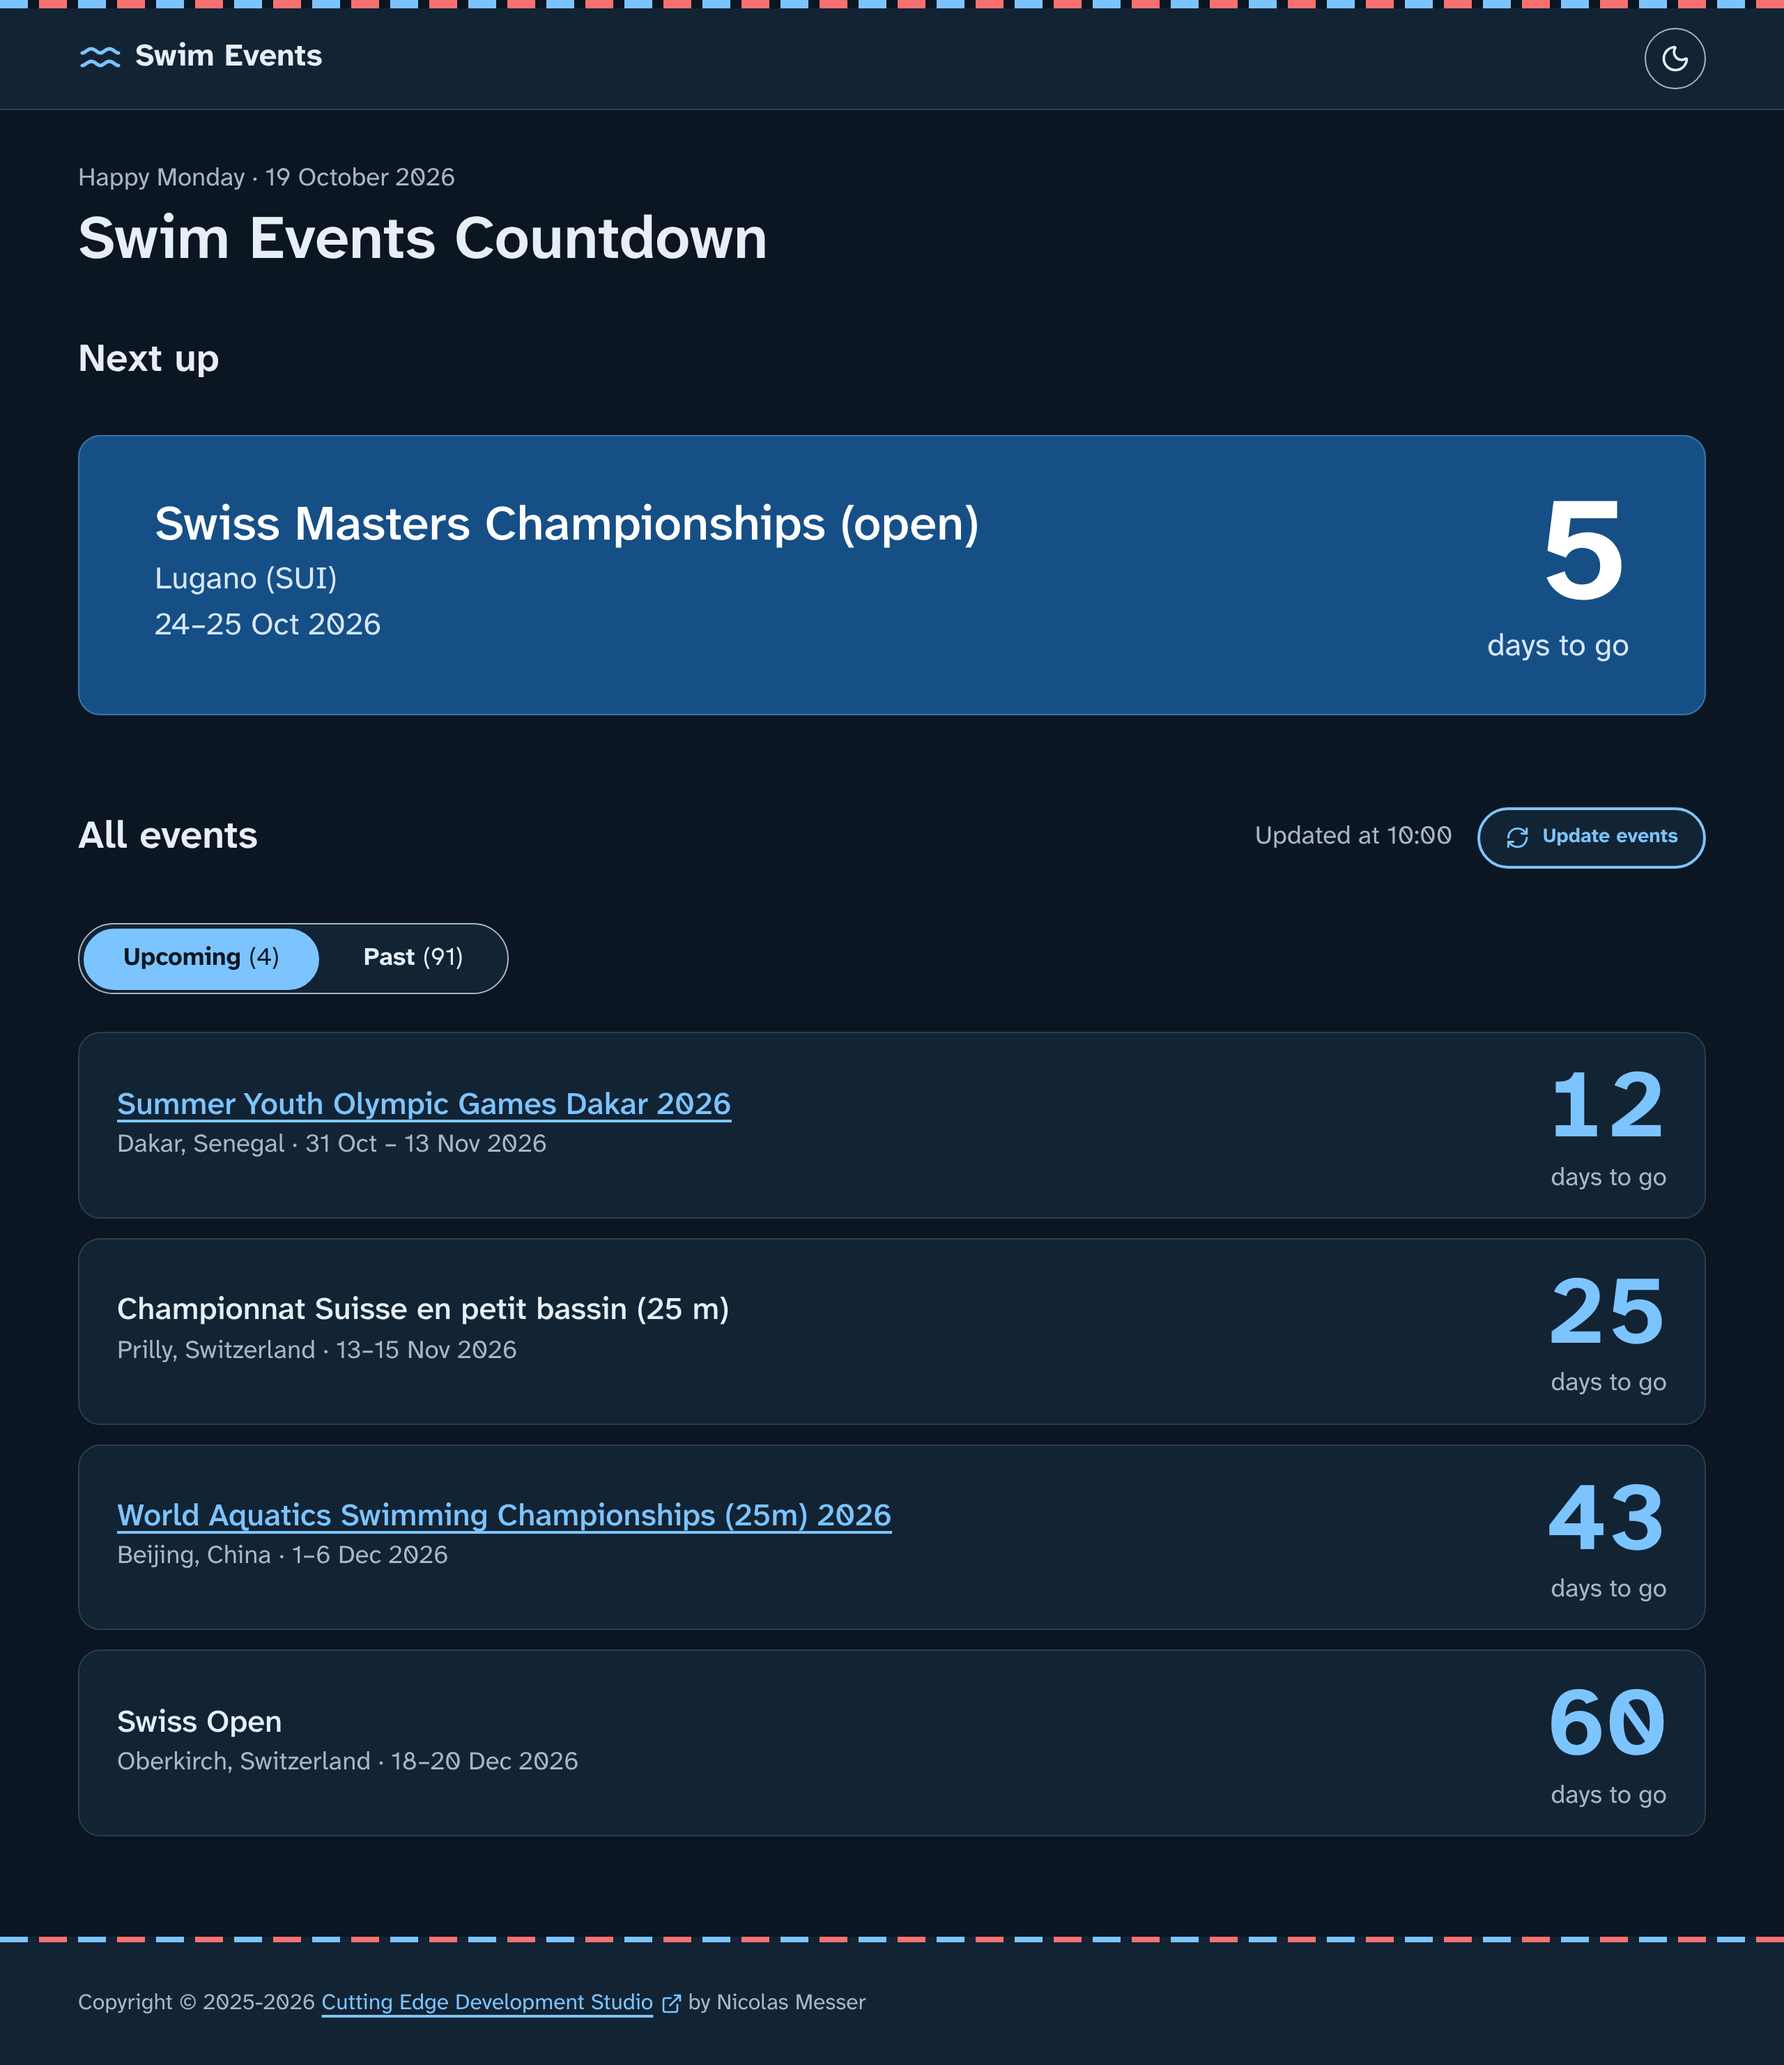
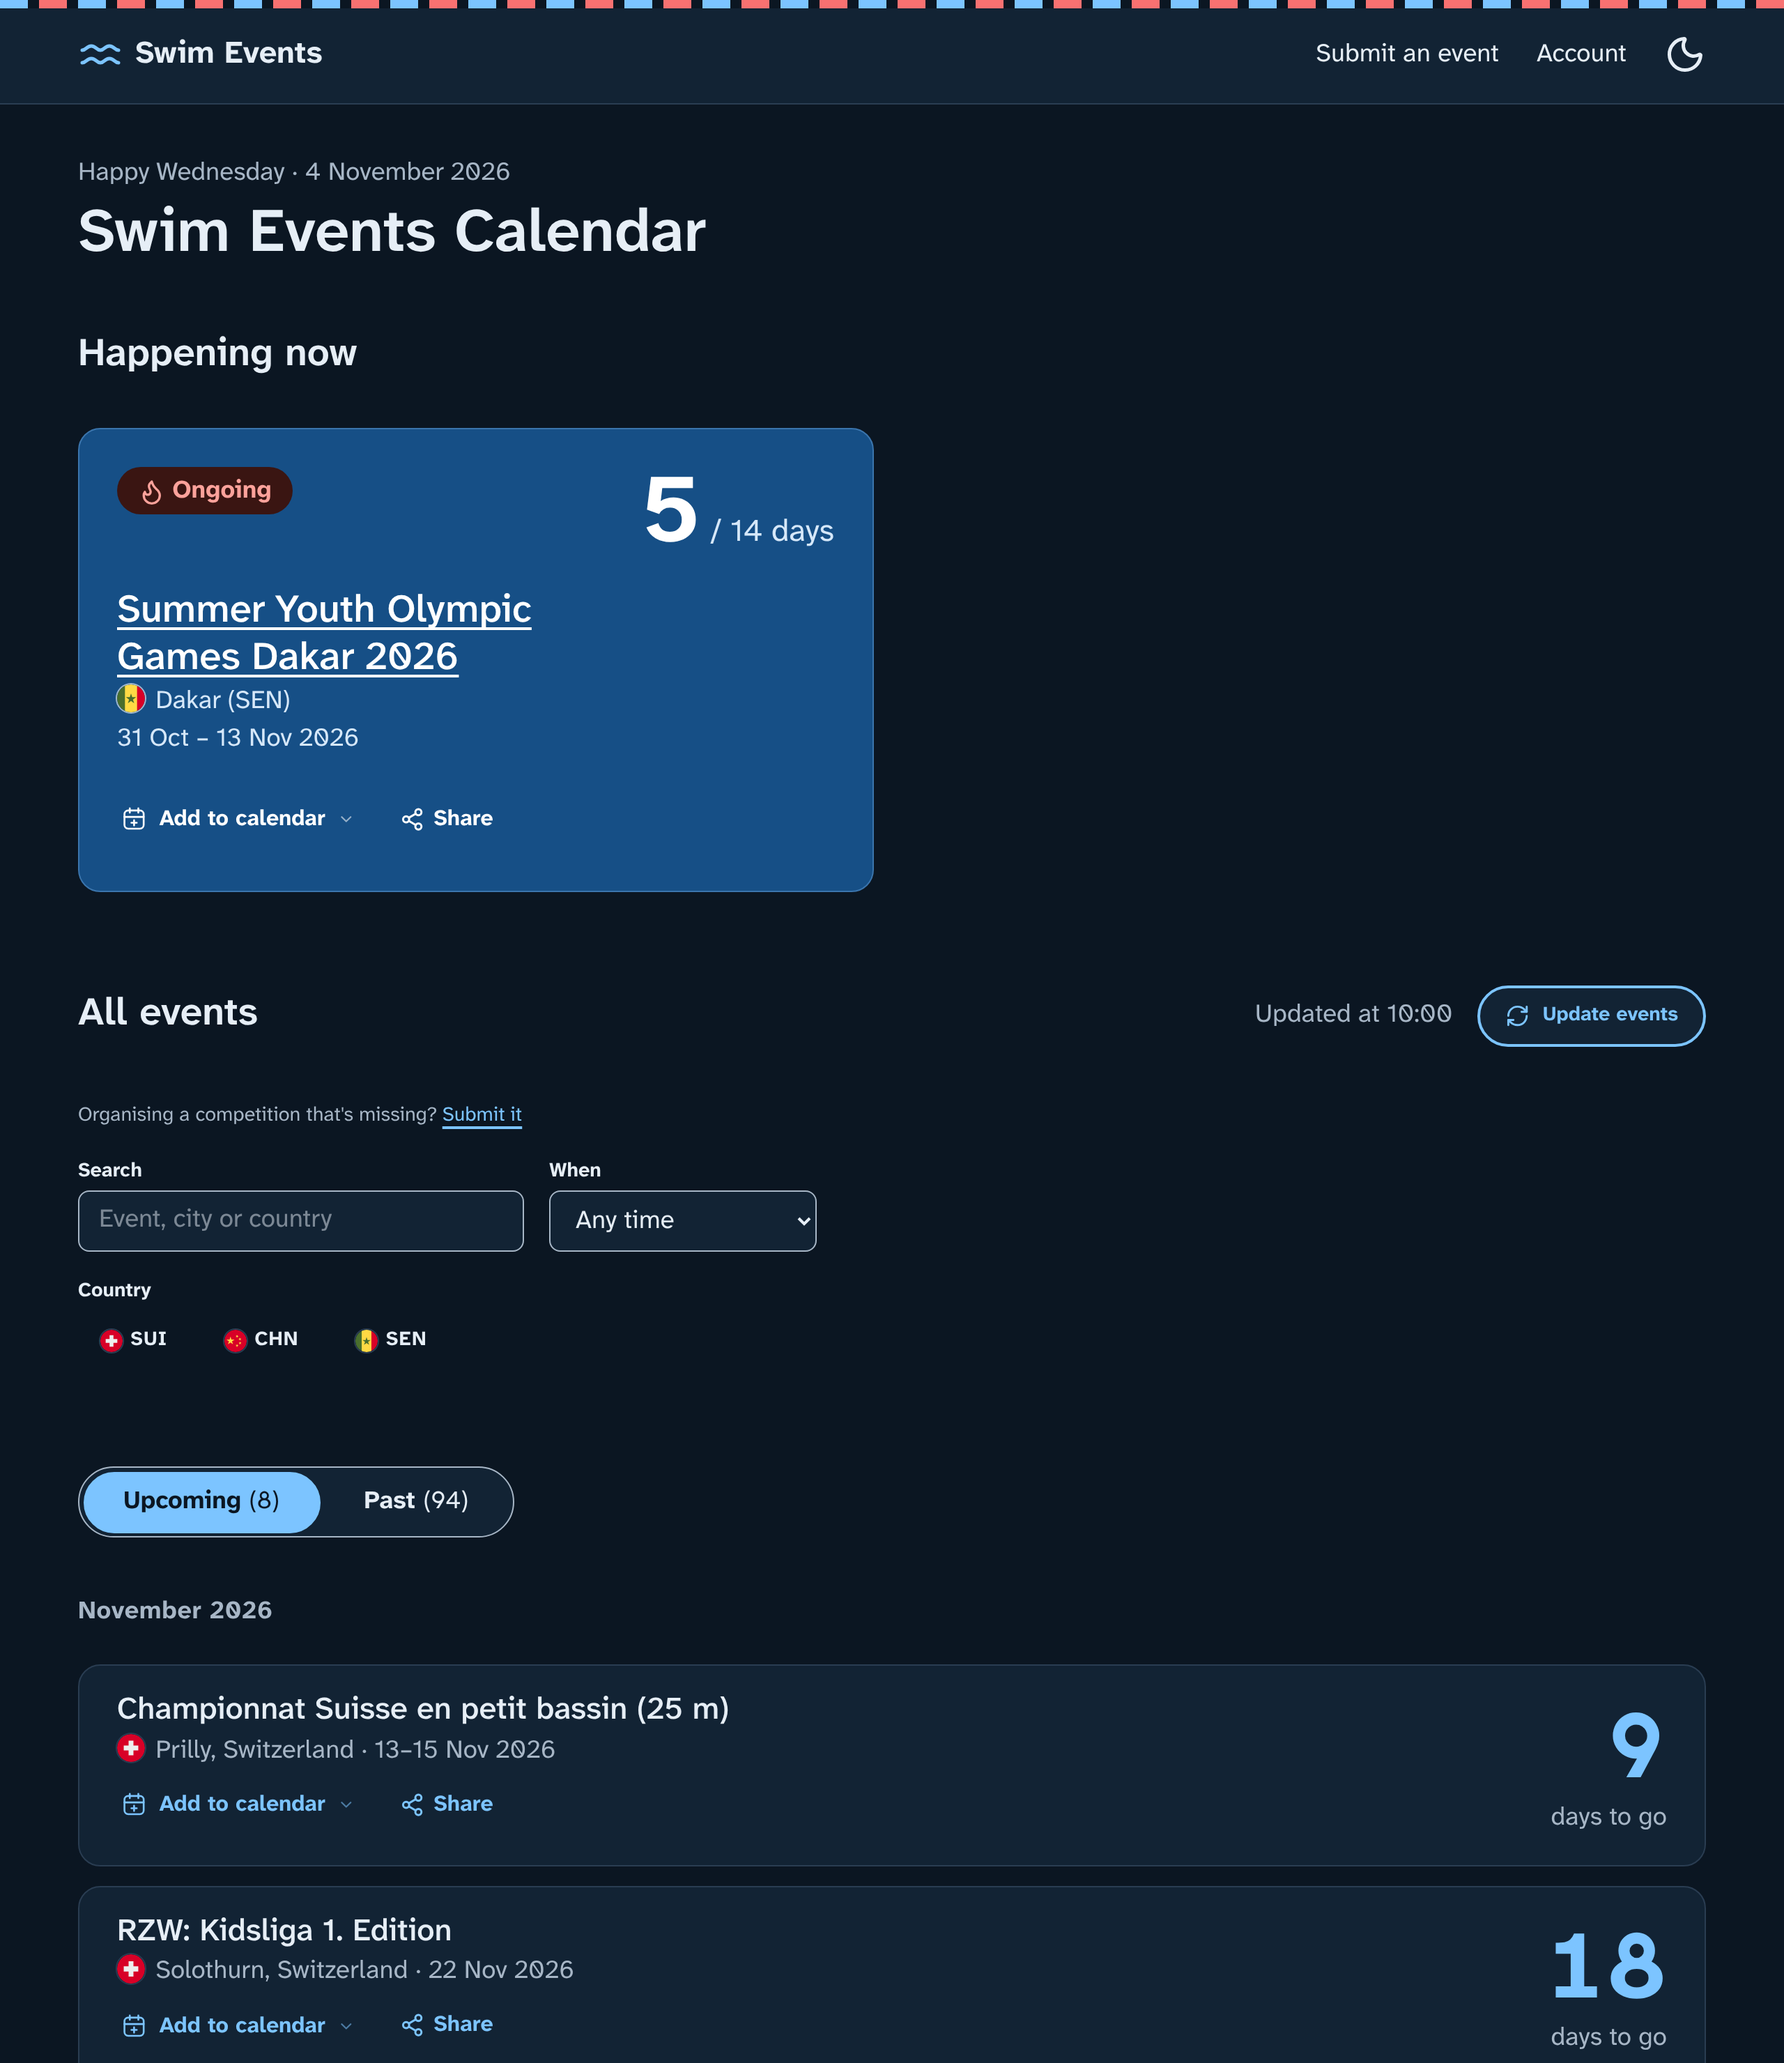
Update the README for the current site
New intro, Features and Event submissions sections, fresh screenshots, the
city and country columns instead of the dropped location column, shared
#event links, the link preview image, and the notify-submission secrets.
package.json now has the site's own name, description and author.

Claude-Session: https://claude.ai/code/session_01BtKM4QGb1zzSNwj4auzTcG

diff --git a/README.md b/README.md
@@ -1,27 +1,58 @@
 # Swim Events Calendar (v2)
 
-A small site that shows countdowns to upcoming swimming events. This is version 2, rebuilt on the
+A calendar of swimming competitions in Switzerland and abroad, with a countdown to each one. Visitors can search and
+filter the events, add them to their calendar and share them; organisers can submit their own competitions. This is version 2, rebuilt on the
 [Accessible Astro Starter](https://github.com/incluud/accessible-astro-starter) (barebones preset). Version 1 (Vue + Parcel)
 lives in [CuttingEdgeDevelopment/swim-events](https://github.com/CuttingEdgeDevelopment/swim-events).
 
 ### Preview
-<img src="src/assets/img/countdown-screenshot.png" alt="Swim Events Calendar in light mode on a desktop browser, with the next event and the upcoming list." width="640">
+<img src="src/assets/img/countdown-screenshot.png" alt="Swim Events Calendar in light mode on a desktop browser: a running event under Happening now, the search and country filters, and the upcoming list with Add to calendar and Share buttons." width="640">
 <img src="src/assets/img/countdown-screenshot-mobile.png" alt="The same page on a phone." width="180">
 
 <img src="src/assets/img/countdown-screenshot-dark.png" alt="The page in dark mode." width="640">
 
+### Features
+- **Countdowns:** the events running today under "Happening now", otherwise the next one under "Next up", then every
+  upcoming event by month with the days to go. Past events are listed by year, 20 at a time (10 on phones).
+- **Search and filters:** search by event, city or country, pick a time period (next 7 or 30 days, 3 months, or chosen
+  dates), countries and, under Past, a year. Filters are kept in the URL (`?q=basel&when=30d&country=SUI&year=2025`), so a
+  filtered list can be shared.
+- **Add to calendar:** Apple, Google, Outlook, Yahoo or an `.ics` file, using
+  [add-to-calendar-button](https://github.com/add2cal/add-to-calendar-button).
+- **Share:** opens the device's share sheet, or a menu with Copy link, WhatsApp and Email. The message names the event,
+  place, dates and days to go, and links to `/#event-123`.
+- **Submit an event:** organisers sign in with a one-time code sent by email (no password), submit competitions and see
+  their status on the Account page.
+- **About, Privacy and Terms** pages, light and dark mode, and accessible keyboard and screen reader support throughout.
+
 ### Technologies & Tools
-Astro, Tailwind CSS, [Accessible Astro Components](https://github.com/incluud/accessible-astro-components), Supabase,
-[Simple Analytics](https://www.simpleanalytics.com/?referral=bafov)
+Astro, Tailwind CSS, [Accessible Astro Components](https://github.com/incluud/accessible-astro-components), Supabase
+(database, sign-in and Edge Functions), [add-to-calendar-button](https://github.com/add2cal/add-to-calendar-button),
+[Resend](https://resend.com/) (emails), [Simple Analytics](https://www.simpleanalytics.com/?referral=bafov)
 
 ### How it works
 The page is static. In the browser, `src/scripts/events.ts` loads all rows from the Supabase `events` table, then works out
 each countdown from the visitor's local date (`src/lib/countdown.ts`). "Update events" fetches them again.
 
-Each event has a `country`: the Olympic (IOC) code, e.g. `SUI`, checked against the `countries` table. When it's left
-empty, it's taken from the code in `location` ("Basel (SUI)"), and common mix-ups such as `MCO` for Monaco (`MON`) are
-corrected on save (`supabase/migrations/`). The same codes, names and flags are in `src/lib/countries.ts`; the round flags
+Each event has a `city` and a `country`: the Olympic (IOC) code, e.g. `SUI`, checked against the `countries` table.
+Common mix-ups such as `MCO` for Monaco (`MON`) are corrected on save (`supabase/migrations/`). The same codes, names and flags are in `src/lib/countries.ts`; the round flags
 in `public/flags/` are copied from [circle-flags](https://github.com/HatScripts/circle-flags) with `npm run flags`.
+
+A shared link such as `/#event-123` opens the home page on that event: it clears filters that would hide it, switches to
+the right tab, year and page, then scrolls to the event and outlines it for a moment (`revealSharedEvent` in
+`src/scripts/events.ts`). Link previews on WhatsApp, iMessage and others use one image for the whole site,
+`src/assets/img/social-preview.png` (1200×630), set in `theme.config.ts`.
+
+### Event submissions
+Organisers submit events on `/submit`; each goes into the private `event_submissions` table, protected by row-level
+security and checked by database rules (dates, how many submissions an account may have waiting or send per day, set in
+`submission_limits`). To review, open `event_submissions` in the Supabase dashboard and set `status` to `approved`,
+`rejected` or `spam`. Approving copies the event into `events`, so it shows on the next page load with no rebuild.
+
+A database webhook on `event_submissions` calls the `notify-submission` Edge Function (`supabase/functions/`), which
+emails the site owner about new submissions and the organiser about the decision, through Resend. It needs these Edge
+Function secrets: `RESEND_API_KEY`, `NOTIFY_EMAIL` (where review emails go) and `WEBHOOK_SECRET` (sent by the webhook in
+the `x-webhook-secret` header). The database rules are tested in `supabase/tests/database/`.
 
 ### Getting started
 Requires Node 24.19 or newer.
